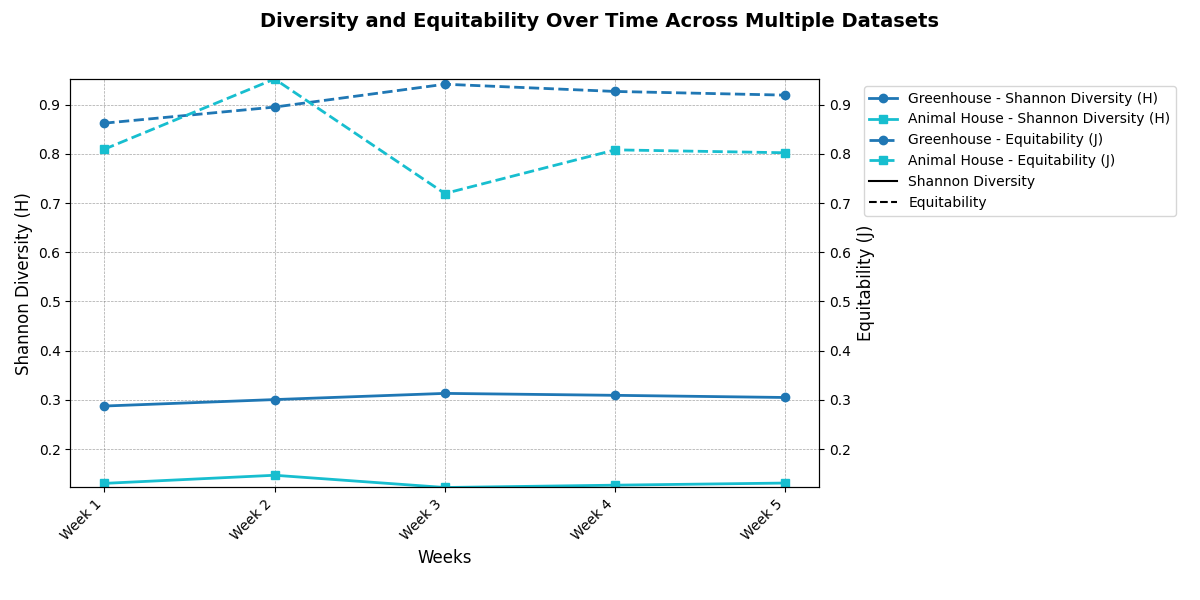
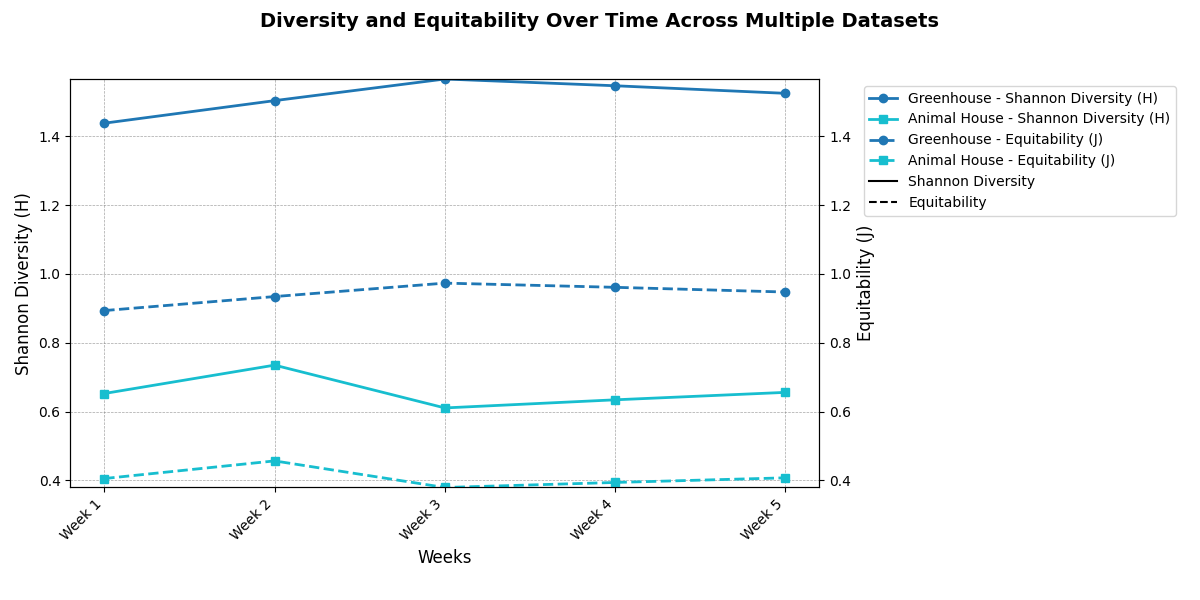
Updated Shannon Bugs + Individual Plots

diff --git a/runAnalysis.py b/runAnalysis.py
@@ -6,9 +6,12 @@ import pandas as pd
 import numpy as np
 import os
 import seaborn as sns
+import warnings
+warnings.filterwarnings("ignore")
 
 output_dir = "output_plots"
 os.makedirs(output_dir, exist_ok=True)
+os.makedirs(f"{output_dir}/individuals", exist_ok=True)
 
 print(f"Reading {sys.argv[1]}...")
 
@@ -163,16 +166,32 @@ def calculate_relative_abundance(data):
 
 (childrens_park_rel, cricket_ground_rel, shopping_complex_rel) = (calculate_relative_abundance(childrens_park),calculate_relative_abundance(cricket_ground),calculate_relative_abundance(shopping_complex))
 
-def calculate_shannon(data):
+Shannon = {}
+
+def calculate_shannon(data,label):
+  print(label)
   shannon_df = pd.DataFrame()
   shannon_df["Week"] = data["Week"]
   species_cols = data.columns[1:]
+  for index, row in data.iterrows():
+    data_row = row[species_cols]
+    shannon_df.loc[index, "Species Count"] = len(data_row[data_row > 0])
   for col in species_cols:
     shannon_df[f"{col} Diversity"] = -data[col] * np.log(data[col])
-    shannon_df[f"{col} Equitability"] = shannon_df[f"{col} Diversity"] / shannon_df[f"{col} Diversity"].max()
+
+  New_Df = pd.DataFrame()
+  New_Df["Week"] = shannon_df["Week"]
+  New_Df["Species Count"] = shannon_df["Species Count"]
+  New_Df["Shannon Diversity"] = shannon_df.filter(regex="Diversity$").sum(axis=1)
+  New_Df["Equitability"] = shannon_df.filter(regex='Diversity$').sum(axis=1, skipna=True) / np.log(shannon_df['Species Count'])
+  Shannon[label] = New_Df
+  
+  # print(f"Diversity: \n {shannon_df.filter(regex="Diversity$").sum(axis=1)}")
+  # print(f"Species Count: \n {shannon_df['Species Count']}")
+  # print(f"Equitability: \n {shannon_df.filter(regex='Diversity$').sum(axis=1, skipna=True) / np.log(shannon_df['Species Count'])}")
   return shannon_df
 
-(childrens_park_shannon, cricket_ground_shannon, shopping_complex_shannon) = (calculate_shannon(childrens_park_rel),calculate_shannon(cricket_ground_rel),calculate_shannon(shopping_complex_rel))
+(childrens_park_shannon, cricket_ground_shannon, shopping_complex_shannon) = (calculate_shannon(childrens_park_rel,"Childrens Park"),calculate_shannon(cricket_ground_rel, "Cricket Ground"),calculate_shannon(shopping_complex_rel, "Shopping Complex"))
 
 def plot_rank_abundance(dfs_tuple, labels):
     output_dir = "output_plots"
@@ -221,8 +240,8 @@ def plot_diversity_equitability(dfs_tuple, labels, output_dir=output_dir):
     markers = ['o', 's', '^', 'D', 'P', '*', 'X', 'H', 'v', '<', '>']
 
     for i, (df, label) in enumerate(zip(dfs_tuple, labels)):
-        df['Shannon Diversity (H)'] = df.filter(regex='Diversity$').mean(axis=1, skipna=True)
-        df['Equitability (J)'] = df.filter(regex='Equitability$').mean(axis=1, skipna=True)
+        df['Shannon Diversity (H)'] = Shannon[label]["Shannon Diversity"]
+        df['Equitability (J)'] = Shannon[label]["Equitability"]
 
         # Plot Shannon Diversity (H)
         ax1.plot(df['Week'], df['Shannon Diversity (H)'], color=colors[i], marker=markers[i % len(markers)], linestyle='-',
@@ -366,3 +385,177 @@ plot_species_density(
     (childrens_park_species_density, cricket_ground_species_density, shopping_complex_species_density),
     ["Childrens Park", "Cricket Ground", "Shopping Complex"]
 )
+
+
+def plot_individual_observations(dfs_tuple, labels, output_dir=output_dir):
+    for df, label in zip(dfs_tuple, labels):
+        fig, ax = plt.subplots(figsize=(8, 6))
+        for col in df.columns[1:]:
+            ax.plot(df['Week'], df[col], label=col)
+
+        ax.set_xlabel('Weeks', fontsize=12)
+        ax.set_ylabel('Observed Individuals', fontsize=12)
+        ax.set_title(f'{label}', fontsize=14, fontweight='bold')
+        ax.legend(title="Species")
+        ax.grid(visible=True, color='grey', linestyle='--', linewidth=0.5, alpha=0.7)
+
+        plt.tight_layout()
+        plt.savefig(f"{output_dir}/individuals/observed_individuals_{label.replace(' ', '_').lower()}.png")
+        plt.legend()
+        plt.close()
+
+
+def plot_individual_rank_abundance(dfs_tuple, labels, output_dir=output_dir):
+    all_species = set()
+    for df in dfs_tuple:
+        all_species.update(df.columns)
+    all_species = sorted([species for species in all_species if species != "Week"])
+
+    colors = sns.color_palette("hls", len(all_species))
+    color_map = dict(zip(all_species, colors))
+
+    for df, label in zip(dfs_tuple, labels):
+        species_cols = [col for col in df.columns if col != "Week"]
+        avg_rel_abundance = df[species_cols].mean().sort_values(ascending=False)
+        ranks = range(1, len(avg_rel_abundance) + 1)
+        bar_colors = [color_map[species] for species in avg_rel_abundance.index]
+
+        fig, ax = plt.subplots(figsize=(8, 6))
+        ax.bar(ranks, avg_rel_abundance, color=bar_colors, edgecolor='k', alpha=0.8)
+        ax.set_xlabel("Rank (Abundance)", fontsize=12)
+        ax.set_ylabel("Average Relative Abundance", fontsize=12)
+        ax.set_title(f"Rank Abundance - {label}", fontsize=14, fontweight='bold')
+        ax.set_xticks(ranks)
+        ax.set_xticklabels(ranks)
+        ax.grid(axis='y', color='grey', linestyle='--', linewidth=0.5, alpha=0.7)
+
+        plt.tight_layout()
+        plt.savefig(f"{output_dir}/individuals/rank_abundance_{label.replace(' ', '_').lower()}.png")
+        plt.legend()
+        plt.close()
+
+
+def plot_individual_diversity_equitability(dfs_tuple, labels, output_dir=output_dir):
+    colors = sns.color_palette("hls", len(dfs_tuple))
+    markers = ['o', 's', '^', 'D', 'P', '*', 'X', 'H', 'v', '<', '>']
+
+    for i, (df, label) in enumerate(zip(dfs_tuple, labels)):
+        fig, ax1 = plt.subplots(figsize=(8, 6))
+        df['Shannon Diversity (H)'] = Shannon[label]["Shannon Diversity"]
+        df['Equitability (J)'] = Shannon[label]["Equitability"]
+
+        # Plot Shannon Diversity
+        ax1.plot(df['Week'], df['Shannon Diversity (H)'], color=colors[i], marker=markers[i % len(markers)], linestyle='-',
+                 linewidth=2, label='Shannon Diversity (H)')
+        ax1.set_xlabel('Weeks', fontsize=12)
+        ax1.set_ylabel('Shannon Diversity (H)', fontsize=12)
+        ax1.grid(visible=True, color='grey', linestyle='--', linewidth=0.5, alpha=0.7)
+
+        ax2 = ax1.twinx()
+        # Plot Equitability
+        ax2.plot(df['Week'], df['Equitability (J)'], color=colors[i], marker=markers[i % len(markers)], linestyle='--',
+                 linewidth=2, label='Equitability (J)')
+        ax2.set_ylabel('Equitability (J)', fontsize=12)
+
+        fig.suptitle(f"Diversity and Equitability - {label}", fontsize=14, fontweight='bold')
+        plt.tight_layout()
+        plt.savefig(f"{output_dir}/individuals/diversity_equitability_{label.replace(' ', '_').lower()}.png")
+        plt.legend()
+        plt.close()
+
+
+def plot_individual_species_density(dfs_tuple, labels, output_dir=output_dir):
+    all_species = set()
+    for df in dfs_tuple:
+        all_species.update(col.replace(" Density", "") for col in df.columns if "Density" in col)
+
+    all_species = sorted(all_species)
+    colors = sns.color_palette("hls", len(all_species))
+
+    for df, label in zip(dfs_tuple, labels):
+        fig, ax = plt.subplots(figsize=(8, 6))
+        for species, color in zip(all_species, colors):
+            species_density_col = f"{species} Density"
+            if species_density_col in df.columns:
+                ax.plot(df["Week"], df[species_density_col], label=species, color=color, linestyle='-', marker='o')
+
+        ax.set_xlabel("Weeks", fontsize=12)
+        ax.set_ylabel("Density (Individuals/m²)", fontsize=12)
+        ax.set_title(f"Species Density - {label}", fontsize=14, fontweight="bold")
+        ax.grid(visible=True, color='grey', linestyle='--', linewidth=0.5, alpha=0.7)
+        ax.legend(title="Species")
+
+        plt.tight_layout()
+        plt.savefig(f"{output_dir}/individuals/species_density_{label.replace(' ', '_').lower()}.png")
+        plt.legend(loc="best")
+        plt.close()
+
+plot_individual_observations(
+    (childrens_park, cricket_ground, shopping_complex),
+    ["Childrens Park", "Cricket Ground", "Shopping Complex"]
+)
+
+plot_individual_rank_abundance(
+    (childrens_park_rel, cricket_ground_rel, shopping_complex_rel),
+    ["Childrens Park", "Cricket Ground", "Shopping Complex"]
+)
+
+plot_individual_diversity_equitability(
+    (childrens_park_shannon, cricket_ground_shannon, shopping_complex_shannon),
+    ["Childrens Park", "Cricket Ground", "Shopping Complex"]
+)
+
+plot_individual_species_density(
+    (childrens_park_species_density, cricket_ground_species_density, shopping_complex_species_density),
+    ["Childrens Park", "Cricket Ground", "Shopping Complex"]
+)
+
+
+def plot_combined_diversity_equitability(weeks, labels):
+
+    # Colors and markers for different lines
+    colors = plt.cm.tab10.colors  # Predefined color palette
+    markers = ['o', 's', 'D', '^', 'v', '<', '>', '*', 'h', 'p']  # Different markers
+
+    # Combined Diversity Plot
+    plt.figure(figsize=(10, 6))
+    for idx, label in enumerate(labels):
+        plt.plot(
+            weeks,
+            Shannon[label]["Shannon Diversity"],
+            marker=markers[idx % len(markers)],
+            linestyle='-',
+            color=colors[idx % len(colors)],
+            label=label
+        )
+    plt.title(' Shannon Diversity (H) Over Time', fontsize=14, fontweight='bold')
+    plt.xlabel('Weeks', fontsize=12)
+    plt.ylabel('Shannon Diversity (H)', fontsize=12)
+    plt.legend()
+    plt.grid(visible=True, linestyle='--', linewidth=0.5, alpha=0.7)
+    plt.tight_layout()
+    plt.savefig(f"{output_dir}/combined_shannon_diversity.png")
+    plt.close()
+
+    # Combined Equitability Plot
+    plt.figure(figsize=(10, 6))
+    for idx, label in enumerate(labels):
+        plt.plot(
+            weeks,
+            Shannon[label]["Equitability"],
+            marker=markers[idx % len(markers)],
+            linestyle='-',
+            color=colors[idx % len(colors)],
+            label=label
+        )
+    plt.title('Equitability (J) Over Time', fontsize=14, fontweight='bold')
+    plt.xlabel('Weeks', fontsize=12)
+    plt.ylabel('Equitability (J)', fontsize=12)
+    plt.legend()
+    plt.grid(visible=True, linestyle='--', linewidth=0.5, alpha=0.7)
+    plt.tight_layout()
+    plt.savefig(f"{output_dir}/combined_equitability.png")
+    plt.close()
+
+
+plot_combined_diversity_equitability(weeks=["Week 1", "Week 2", "Week 3", "Week 4", "Week 5"],labels=["Childrens Park", "Cricket Ground", "Shopping Complex"])

diff --git a/runSpiders.py b/runSpiders.py
@@ -9,6 +9,7 @@ import os
 # Output directory setup
 output_dir = "spider_plots"
 os.makedirs(output_dir, exist_ok=True)
+os.makedirs(f"{output_dir}/individual", exist_ok=True)
 
 # Read input JSON file
 print(f"Reading {sys.argv[1]}...")
@@ -131,18 +132,33 @@ def calculate_relative_abundance(data):
 greenhouse_rel = calculate_relative_abundance(greenhouse)
 animal_house_rel = calculate_relative_abundance(animal_house)
 
-# Calculate Shannon diversity
-def calculate_shannon(data):
-    shannon_df = pd.DataFrame()
-    shannon_df["Week"] = data["Week"]
-    species_cols = data.columns[1:]
-    for col in species_cols:
-        shannon_df[f"{col} Diversity"] = -data[col] * np.log(data[col])
-        shannon_df[f"{col} Equitability"] = shannon_df[f"{col} Diversity"] / shannon_df[f"{col} Diversity"].max()
-    return shannon_df
+Shannon = {}
 
-greenhouse_shannon = calculate_shannon(greenhouse_rel)
-animal_house_shannon = calculate_shannon(animal_house_rel)
+def calculate_shannon(data,label):
+  print(label)
+  shannon_df = pd.DataFrame()
+  shannon_df["Week"] = data["Week"]
+  species_cols = data.columns[1:]
+  for index, row in data.iterrows():
+    data_row = row[species_cols]
+    shannon_df.loc[index, "Species Count"] = len(data_row[data_row > 0])
+  for col in species_cols:
+    shannon_df[f"{col} Diversity"] = -data[col] * np.log(data[col])
+
+  New_Df = pd.DataFrame()
+  New_Df["Week"] = shannon_df["Week"]
+  New_Df["Species Count"] = shannon_df["Species Count"]
+  New_Df["Shannon Diversity"] = shannon_df.filter(regex="Diversity$").sum(axis=1)
+  New_Df["Equitability"] = shannon_df.filter(regex='Diversity$').sum(axis=1, skipna=True) / np.log(shannon_df['Species Count'])
+  Shannon[label] = New_Df
+  
+  # print(f"Diversity: \n {shannon_df.filter(regex="Diversity$").sum(axis=1)}")
+  # print(f"Species Count: \n {shannon_df['Species Count']}")
+  # print(f"Equitability: \n {shannon_df.filter(regex='Diversity$').sum(axis=1, skipna=True) / np.log(shannon_df['Species Count'])}")
+  return shannon_df
+
+greenhouse_shannon = calculate_shannon(greenhouse_rel, "Greenhouse")
+animal_house_shannon = calculate_shannon(animal_house_rel, "Animal House")
 
 # Plot diversity and equitability
 # Improved Shannon Diversity and Equitability Plot
@@ -152,9 +168,8 @@ def plot_diversity_equitability(dfs_tuple, labels):
     markers = ['o', 's', '^', 'D', 'P', '*', 'X', 'H', 'v', '<', '>']
 
     for i, (df, label) in enumerate(zip(dfs_tuple, labels)):
-        df['Shannon Diversity (H)'] = df.filter(regex='Diversity$').mean(axis=1, skipna=True)
-        df['Equitability (J)'] = df.filter(regex='Equitability$').mean(axis=1, skipna=True)
-
+        df['Shannon Diversity (H)'] = Shannon[label]["Shannon Diversity"]
+        df['Equitability (J)'] = Shannon[label]["Equitability"]
         ax1.plot(df['Week'], df['Shannon Diversity (H)'], color=colors[i], marker=markers[i % len(markers)],
                  linestyle='-', linewidth=2, label=f'{label} - Shannon Diversity (H)')
 
@@ -256,3 +271,92 @@ def plot_rank_abundance(dfs_tuple, labels):
 
 # Call the function for rank abundance plot
 plot_rank_abundance((greenhouse_rel, animal_house_rel), ["Greenhouse", "Animal House"])
+
+
+def plot_individual_diversity_equitability(df, label):
+    fig, ax1 = plt.subplots(figsize=(8, 5))
+    
+    df['Shannon Diversity (H)'] = Shannon[label]["Shannon Diversity"]
+    df['Equitability (J)'] = Shannon[label]["Equitability"]
+
+    # Calculate the range for shared y-axis scaling
+    combined_min = min(df['Shannon Diversity (H)'].min(), df['Equitability (J)'].min())
+    combined_max = max(df['Shannon Diversity (H)'].max(), df['Equitability (J)'].max())
+
+    # Shannon Diversity
+    ax1.plot(df['Week'], df['Shannon Diversity (H)'], marker='o', linestyle='-', color='blue', label="Shannon Diversity (H)")
+    ax1.set_xlabel('Weeks', fontsize=12)
+    ax1.set_ylabel('Shannon Diversity (H)', fontsize=12, color='blue')
+    ax1.tick_params(axis='y', labelcolor='blue')
+    ax1.set_ylim(combined_min, combined_max)
+    ax1.grid(visible=True, linestyle='--', linewidth=0.5, alpha=0.7)
+
+    # Equitability (on the second axis)
+    ax2 = ax1.twinx()
+    ax2.plot(df['Week'], df['Equitability (J)'], marker='s', linestyle='--', color='green', label="Equitability (J)")
+    ax2.set_ylabel('Equitability (J)', fontsize=12, color='green')
+    ax2.tick_params(axis='y', labelcolor='green')
+    ax2.set_ylim(combined_min, combined_max)
+
+    # Titles and Legends
+    fig.suptitle(f'Diversity and Equitability Over Time: {label}', fontsize=14, fontweight='bold')
+    fig.tight_layout()
+    plt.savefig(f"{output_dir}/individual/diversity_equitability_{label.lower().replace(' ', '_')}.png")
+    plt.close()
+
+
+# Generate Individual Plots
+plot_individual_diversity_equitability(Shannon["Greenhouse"], "Greenhouse")
+plot_individual_diversity_equitability(Shannon["Animal House"], "Animal House")
+
+
+def plot_individual_observations(df, label):
+    fig, ax = plt.subplots(figsize=(8, 5))
+
+    for col in df.columns[1:]:
+        ax.plot(df['Week'], df[col], marker='o', linestyle='-', label=col)
+
+    ax.set_xlabel('Weeks', fontsize=12)
+    ax.set_ylabel('Observed Individuals', fontsize=12)
+    ax.set_title(f'Observed Individuals Over Time: {label}', fontsize=14, fontweight='bold')
+    ax.legend(loc="upper left", bbox_to_anchor=(1, 1))
+    ax.grid(visible=True, linestyle='--', linewidth=0.5, alpha=0.7)
+
+    plt.tight_layout()
+    plt.savefig(f"{output_dir}/individual/observed_individuals_{label.lower().replace(' ', '_')}.png")
+    plt.close()
+
+# Generate Individual Observation Plots
+plot_individual_observations(greenhouse, "Greenhouse")
+plot_individual_observations(animal_house, "Animal House")
+
+
+def plot_individual_rank_abundance(df, label):
+    species_cols = [col for col in df.columns if col != "Week"]
+    avg_rel_abundance = df[species_cols].mean().sort_values(ascending=False)
+    ranks = range(1, len(avg_rel_abundance) + 1)
+    colors = plt.cm.tab20(np.linspace(0, 1, len(avg_rel_abundance)))
+
+    fig, ax = plt.subplots(figsize=(8, 5))
+    ax.bar(ranks, avg_rel_abundance, color=colors, edgecolor='k', alpha=0.8)
+    ax.set_xlabel("Rank (Abundance)", fontsize=12)
+    ax.set_ylabel("Average Relative Abundance", fontsize=12)
+    ax.set_title(f'Rank Abundance: {label}', fontsize=14, fontweight='bold')
+    ax.set_xticks(ranks)
+    ax.set_xticklabels(ranks)
+    ax.grid(axis='y', color='grey', linestyle='--', linewidth=0.5, alpha=0.7)
+
+    # Species Legend
+    legend_labels = avg_rel_abundance.index
+    legend_handles = [plt.Line2D([0], [0], color=color, marker='o', linestyle='', markersize=8) for color in colors]
+    ax.legend(legend_handles, legend_labels, title="Species", loc='upper right', bbox_to_anchor=(1.3, 1))
+
+    plt.tight_layout()
+    plt.savefig(f"{output_dir}/individual/rank_abundance_{label.lower().replace(' ', '_')}.png")
+    plt.close()
+
+# Generate Individual Rank Abundance Plots
+plot_individual_rank_abundance(greenhouse_rel, "Greenhouse")
+plot_individual_rank_abundance(animal_house_rel, "Animal House")
+
+
